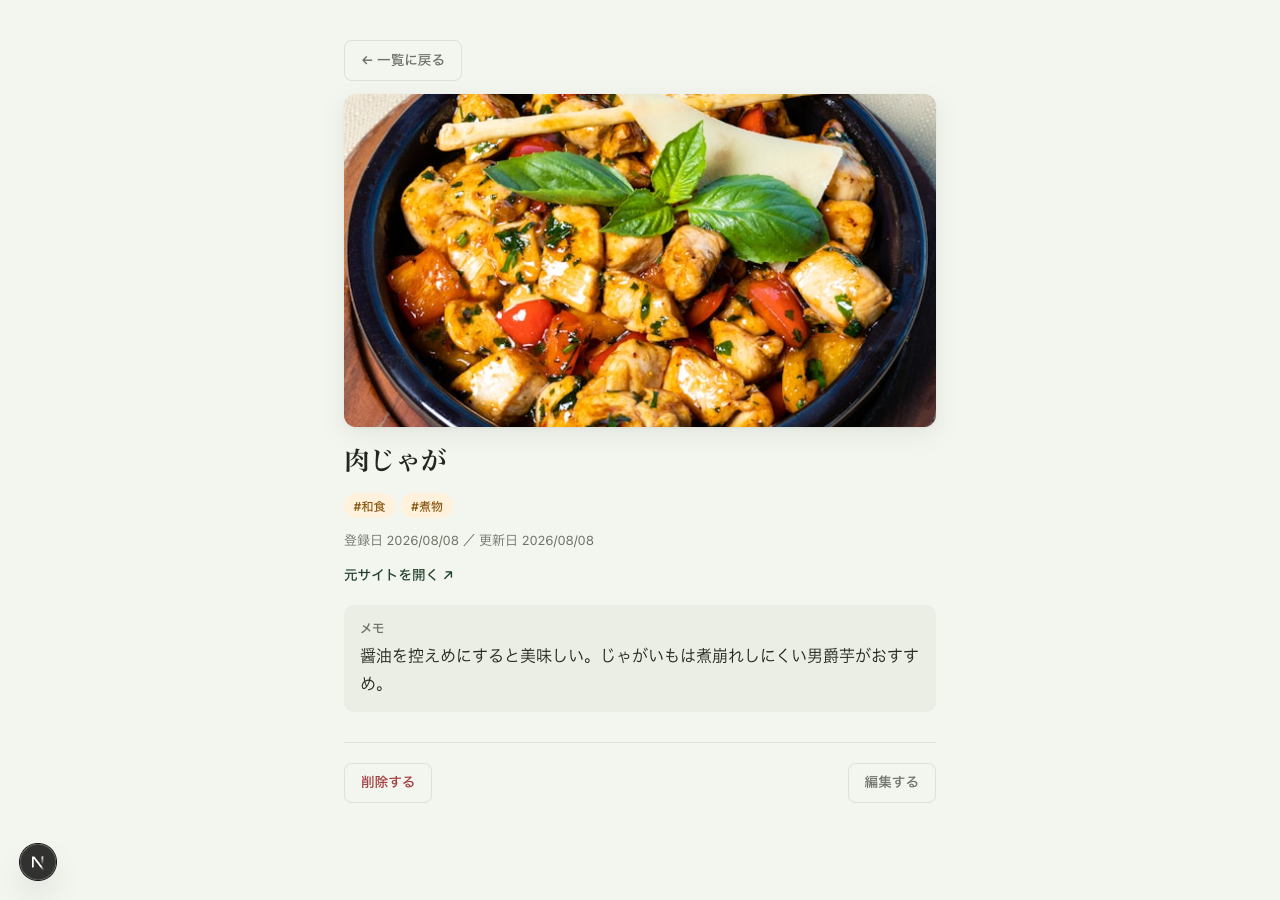
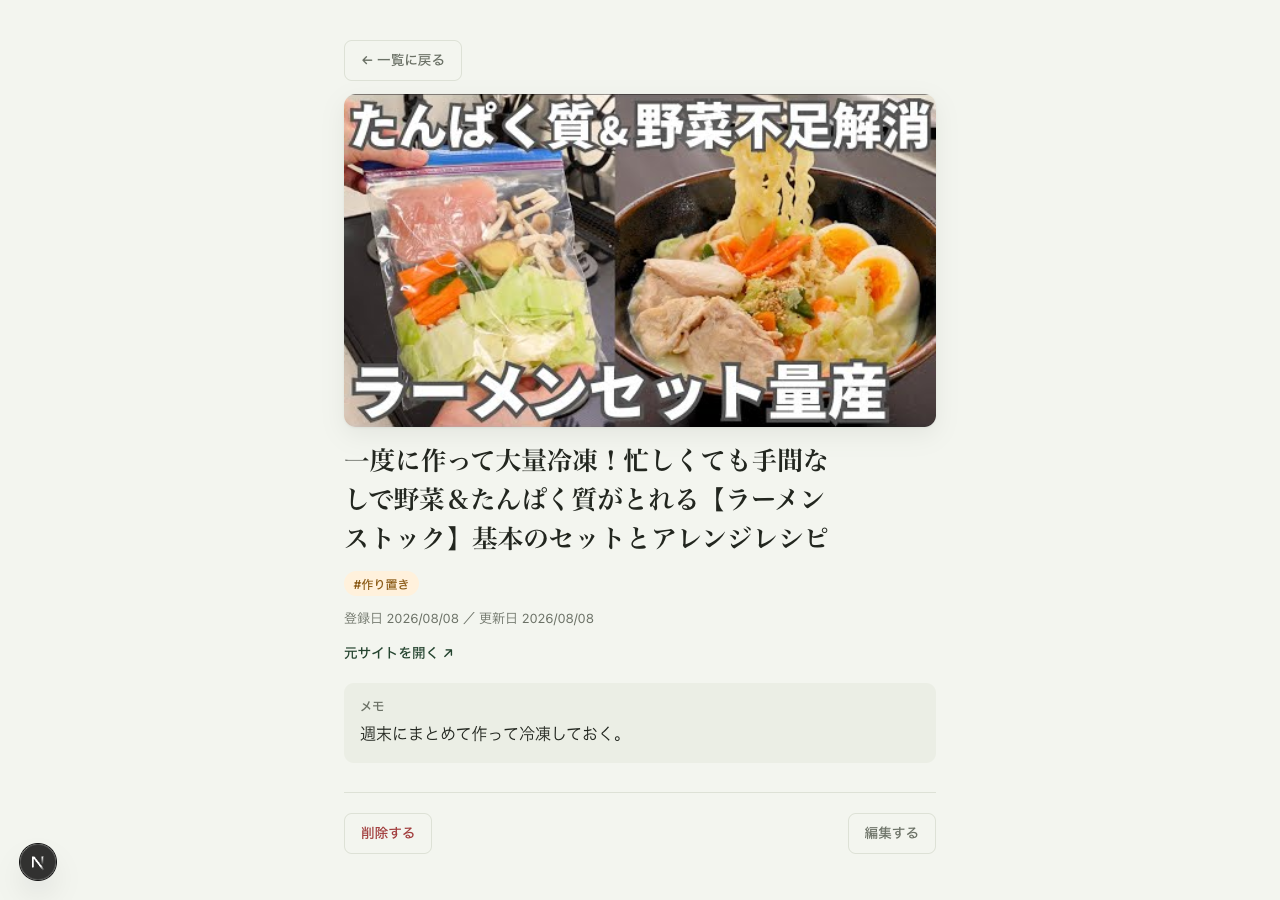
fix: 検索・タグ絞り込みGIFと編集画面の見せ方を改善する
- 検索・タグ絞り込みGIF: 登場するデータを実際のレシピ動画（ラーメンストック）
  に揃え、一貫性を持たせた
- 編集・削除: GIFだと更新・削除ボタンが画面下に見切れてしまうため、両方の
  ボタンが収まる静止画に変更した
- list.png・detail.png: PR #53（eyebrowラベル削除）後の見た目・最新のサンプル
  データに合わせて撮り直した

diff --git a/README.md b/README.md
@@ -36,9 +36,9 @@ URLを入力して「自動取得」を押す（またはEnter）と、タイト
 
 ### 編集・削除
 
-![編集・削除の様子](docs/screenshots/edit-delete.gif)
+![レシピ編集画面](docs/screenshots/edit.png)
 
-登録済みレシピのタイトル・サムネイル・メモ・タグを編集、または削除できる。
+登録済みレシピのタイトル・サムネイル・メモ・タグを編集できる。編集画面・詳細画面それぞれから削除もできる。
 
 ## 技術スタック
 
